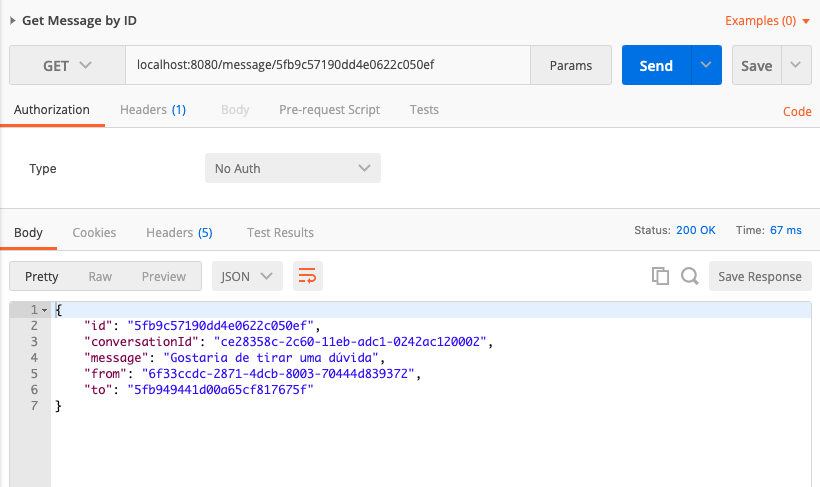
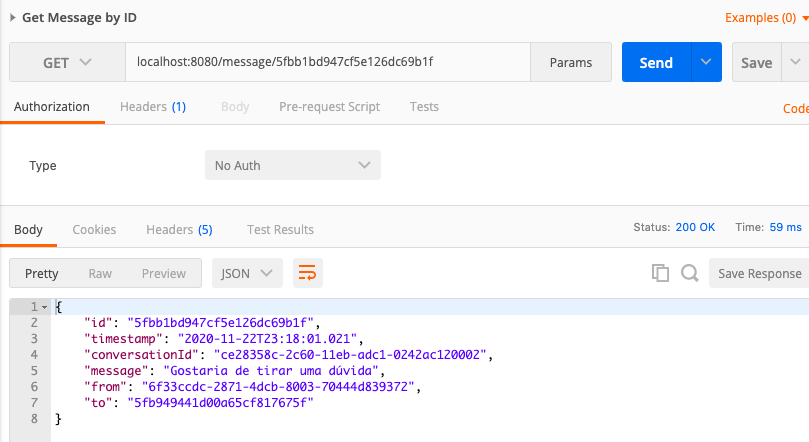
performance test

diff --git a/src/main/java/com/johnwick182/chatbotdemo/model/Message.java b/src/main/java/com/johnwick182/chatbotdemo/model/Message.java
@@ -1,8 +1,11 @@
 package com.johnwick182.chatbotdemo.model;
 
 import lombok.*;
+import org.springframework.data.annotation.CreatedDate;
 import org.springframework.data.annotation.Id;
 import org.springframework.data.mongodb.core.mapping.Document;
+import org.springframework.format.annotation.DateTimeFormat;
+import java.time.LocalDateTime;
 
 @Getter
 @ToString
@@ -11,6 +14,10 @@ public class Message {
 
     @Id
     private String id;
+
+    @DateTimeFormat(style = "M-")
+    @CreatedDate
+    private LocalDateTime timestamp = LocalDateTime.now();
 
     private String conversationId;
 

diff --git a/README.md b/README.md
@@ -11,15 +11,6 @@
 
 <br>
 
-<p> Débitos e melhorias:</p>
-<ul>
-<li>Criar testes unitários</li>
-<li></li>
-<li>Criar testes unitários</li>
-
-</ul>
-
-
 <p>Endpoints:
 <br>
 <b>/BOT</b>
@@ -41,6 +32,8 @@
     </ul> 
 
 <img src="img/mongoDBdraw.png" alt="mongodb">
+
+<h1>Testes Postman</h1>
 
 <h1>List All Bots</h1>
 <img src="img/AllBots.png" alt="All bots">
@@ -66,3 +59,19 @@
 <img src="img/getMessageById.png" alt="Get Message By id">
 
 
+<h1>Testes de Performance</h1>
+<h4>Realizados em: Macbook Air - 8gb RAM - i5</h4>
+<h3>Teste l</h3>
+<img src="img/firstTest/firstscreen.png" alt="All bots">
+<img src="img/firstTest/hitsPerSecond.png" alt="All bots">
+<img src="img/firstTest/responseTime.png" alt="All bots">
+<hr>
+<h3>Teste ll</h3>
+<img src="img/secondTest/firstscreen.png" alt="All bots">
+<img src="img/secondTest/hitsPerSecond.png" alt="All bots">
+<img src="img/secondTest/responseTime.png" alt="All bots">
+
+<p> Débitos e melhorias:</p>
+<ul>
+<li>Criar testes unitários</li>
+</ul>
